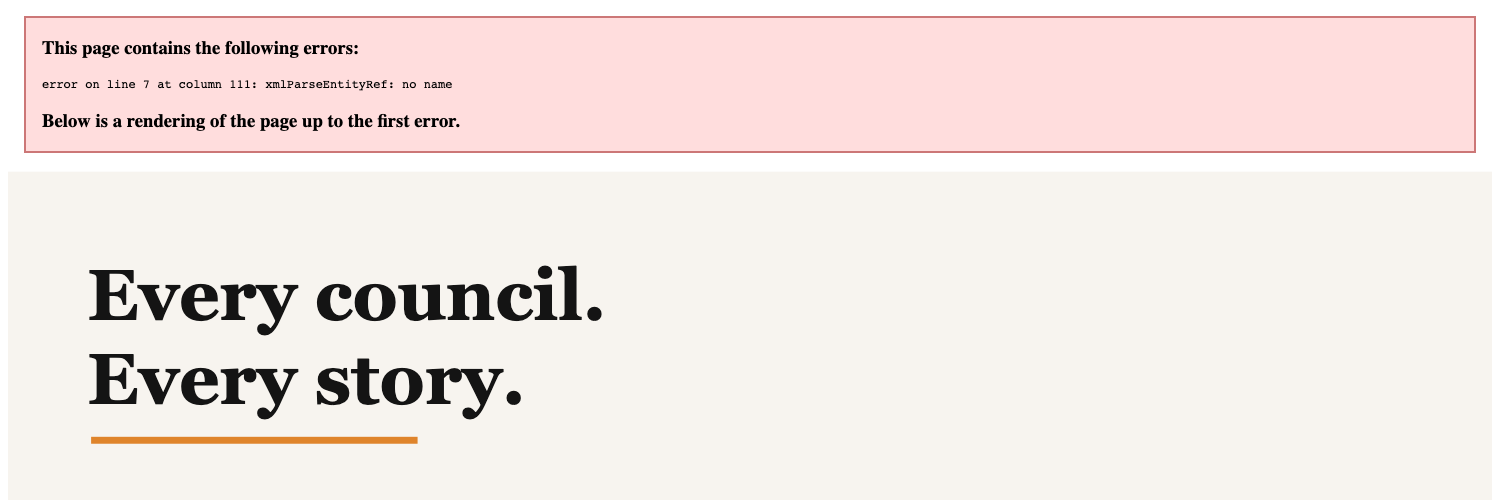
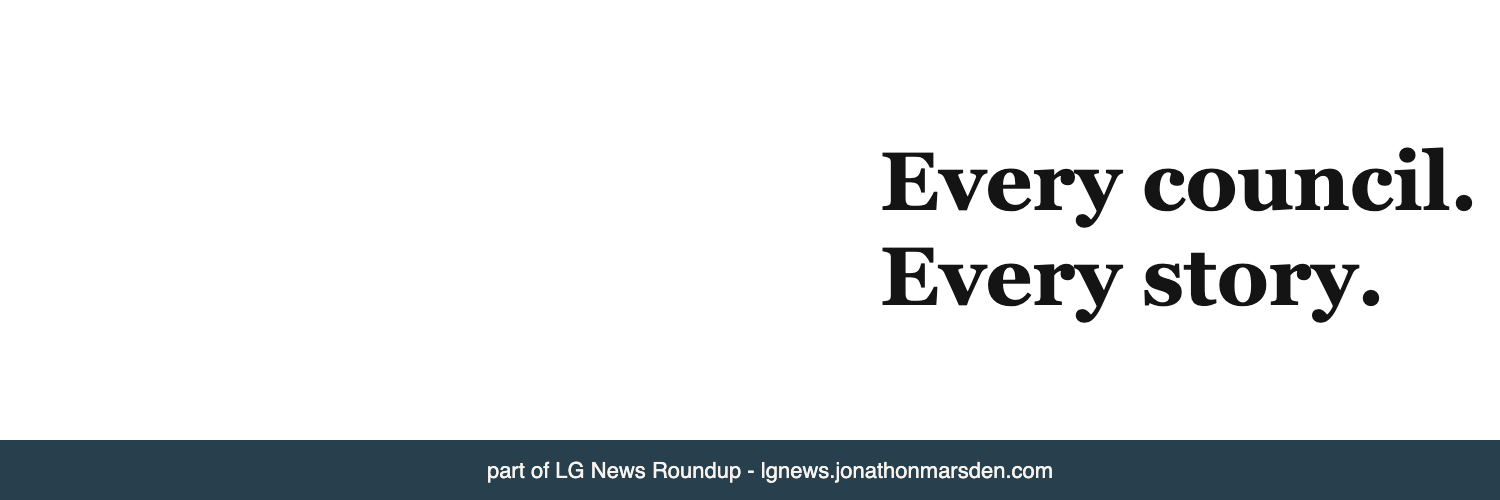
refresh: finalise Bluesky branding across all 8 state feeds
Updates the prepared branding assets to match what is now live:
- Banners: two-line 'Every council. Every story.' on white, no state
  name or council count, footer attribution to LG News Roundup.
- profiles.json: clean display names (e.g. 'Victoria Council News'),
  bios crediting @jonathonmarsden.com, and pinned-post text rewritten
  to read clearly. Plain dashes throughout; no emoji anywhere.

Also removes the emoji-rendering ntfy tags from the feed-health monitor,
per the project-wide no-emoji rule.

diff --git a/scripts/monitoring/check_feed_health.py b/scripts/monitoring/check_feed_health.py
@@ -94,7 +94,6 @@ def push_ntfy(ntfy_url, healthy, lines):
     headers = {
         "Title": title,
         "Priority": "default" if healthy else "high",
-        "Tags": "white_check_mark" if healthy else "rotating_light",
     }
     token = os.environ.get("NTFY_TOKEN")
     if token:
